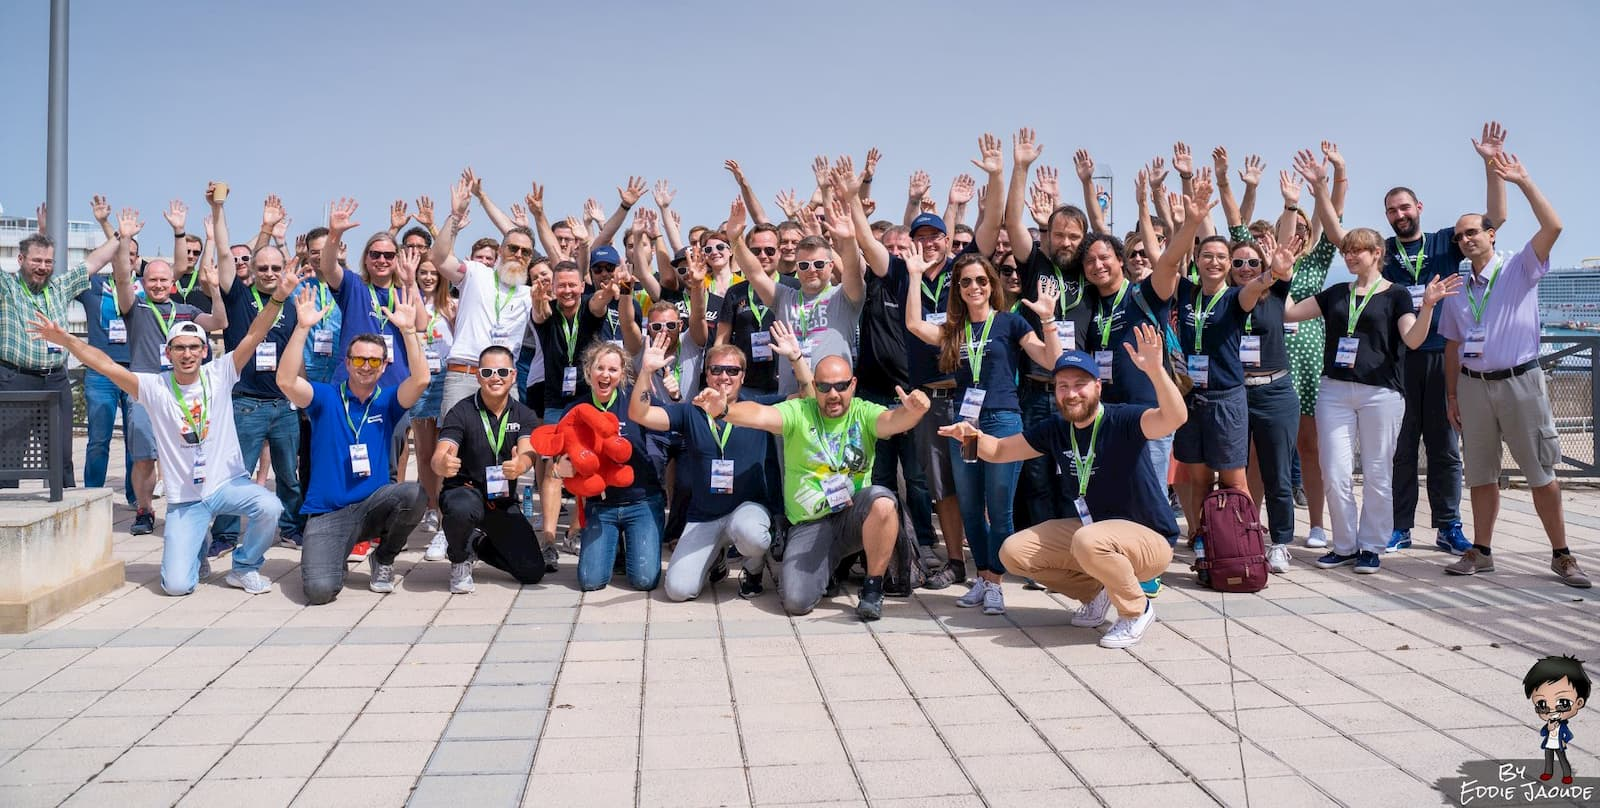
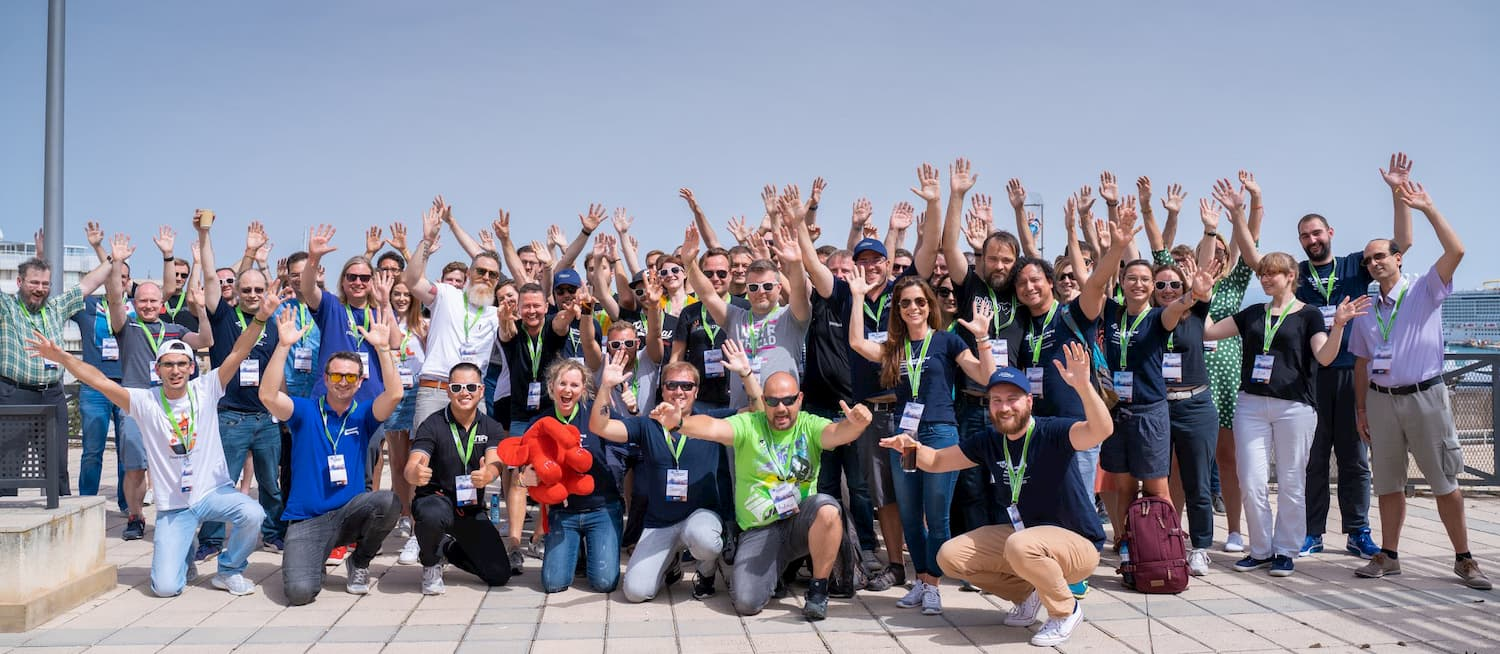
add markdown support to about section; optimize image

diff --git a/_includes/sections/about.html b/_includes/sections/about.html
@@ -6,16 +6,16 @@
       <div class="row">
         <div class="col-lg-6">
           <h2>About The Event</h2>
-          <p>{{ section.about }}</p>
+          <p>{{ section.about | markdownify }}</p>
         </div>
         <div class="col-lg-3">
           <h3>Where</h3>
-          <p>{{ section.where }}</p>
+          <p>{{ section.where | markdownify }}</p>
         </div>
         <div class="col-lg-3">
           <h3>When</h3>
           <p>
-          {{ section.when }}</p>
+          {{ section.when | markdownify }}</p>
         </div>
       </div>
     </div>

diff --git a/_sections/about.md b/_sections/about.md
@@ -2,8 +2,19 @@
 order: 2
 navtitle: About
 active: true
-where: Meliá Hotel Innside Bosque<br>Palma de Mallorca<br>Spain
-when: Friday to Sunday<br>4-6 September 2020
 template: sections/about.html
-about: Catch up with an enthusiastic group of likeminded people who are crazy about web technologies and performance. No matter if you are an Engineer, DevOps, Architect, Product Owner or Project Manager - everybody is welcome. This event is very open and inclusive. The maximum number of attendees is limited to 100. We want a family atmosphere where everyone can engage in sharing their knowledge and experience. It's like a weekend with friends and everyone brought their laptops :-) Plus, it's on the beautiful island of Mallorca in late summer. Usually he weather is perfect to relax at the pool and have a good time with friends.
+
+where: |
+  Meliá Hotel Innside Bosque\
+  Palma de Mallorca\
+  Spain
+
+when: |
+  Friday to Sunday\
+  4-6 September 2020
+
+about: |
+  Catch up with an enthusiastic group of likeminded people who are crazy about web technologies and performance. No matter if you are an Engineer, DevOps, Architect, Product Owner or Project Manager - everybody is welcome.
+
+  This event is very open and inclusive. The maximum number of attendees is limited to 100. We want a family atmosphere where everyone can engage in sharing their knowledge and experience. It's like a weekend with friends and everyone brought their laptops :-) Plus, it's on the beautiful island of Mallorca in late summer. Usually he weather is perfect to relax at the pool and have a good time with friends.
 ---
